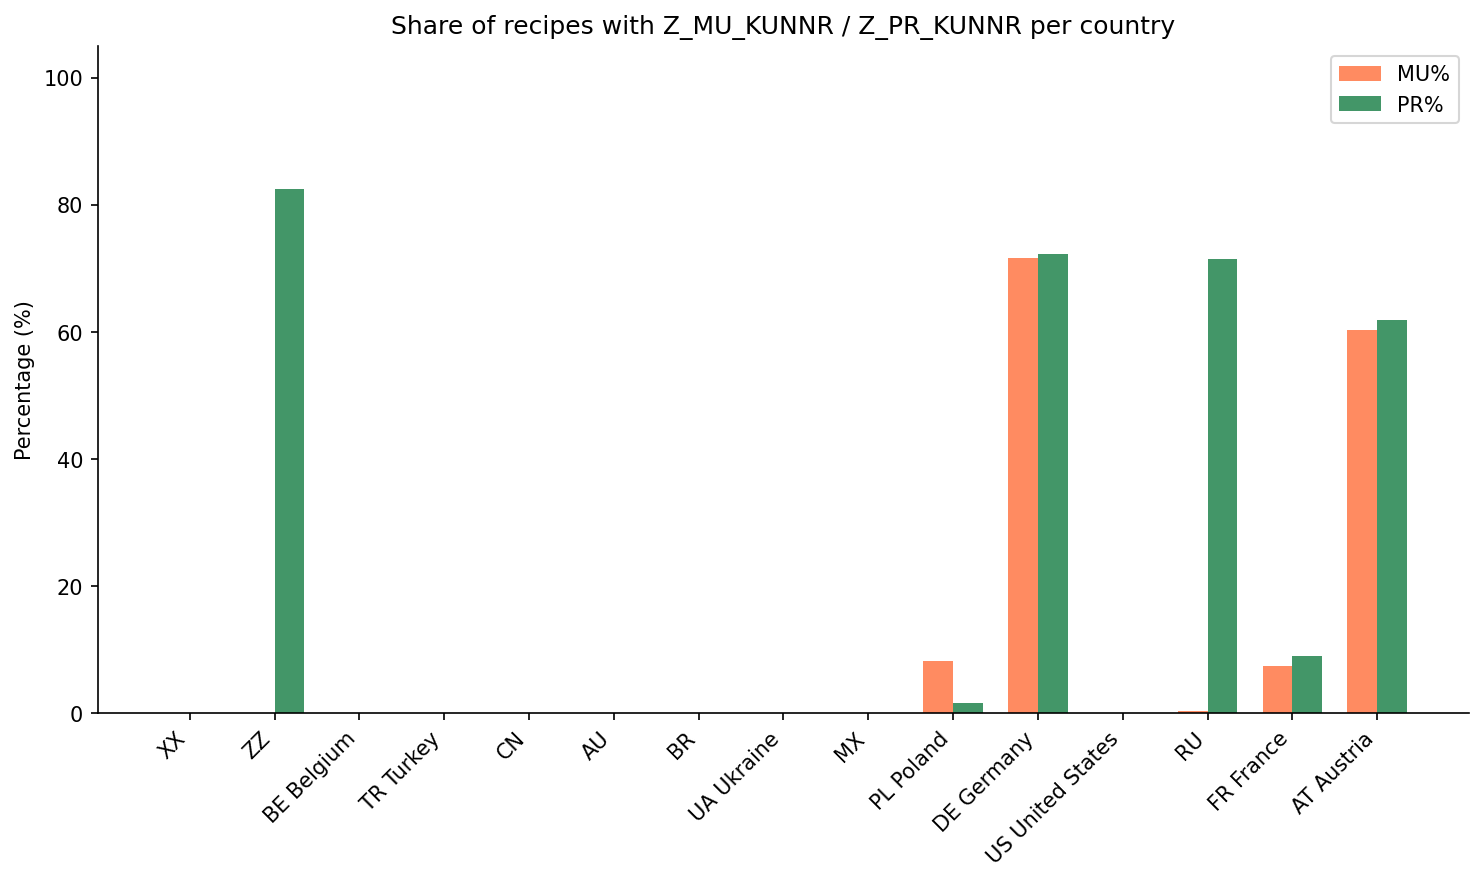
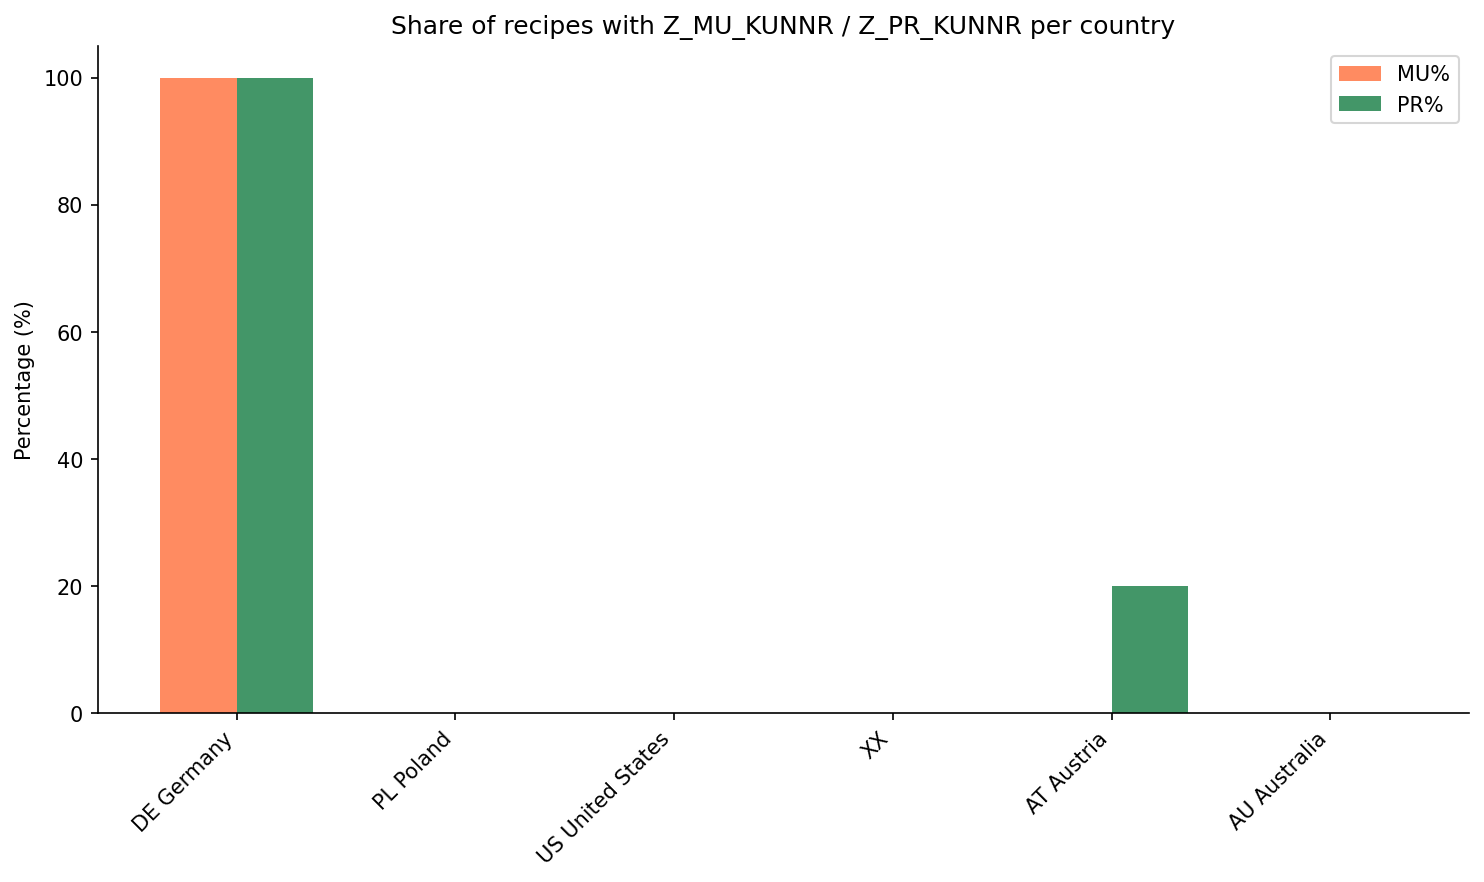
Update kunnr_stats files and enhance country extraction logic
- Revised kunnr_stats.csv to reflect updated statistics with new country data.
- Modified count_kunnr_stats.py to include Australia and Brazil in the country mapping and added a new function to extract country codes from JSON data.
- Updated Excel file kunnr_stats.xlsx and various plot images to align with the latest data changes.

diff --git a/app/backend/count_kunnr_stats.py b/app/backend/count_kunnr_stats.py
@@ -30,14 +30,14 @@ COUNTRY_CODE_RE = re.compile(r'_([A-Z]{2})\d{2}_')
 TARGET_CHARACTS = {"Z_MU_KUNNR", "Z_PR_KUNNR"}
 
 COUNTRY_CODE_MAP = {
-    "AT": "Austria", "BE": "Belgium", "BG": "Bulgaria", "CH": "Switzerland",
-    "CZ": "Czech Republic", "DE": "Germany", "DK": "Denmark", "EE": "Estonia",
-    "ES": "Spain", "FI": "Finland", "FR": "France", "GB": "United Kingdom",
-    "GR": "Greece", "HR": "Croatia", "HU": "Hungary", "IE": "Ireland",
-    "IT": "Italy", "LT": "Lithuania", "LV": "Latvia", "NL": "Netherlands",
-    "NO": "Norway", "PL": "Poland", "PT": "Portugal", "RO": "Romania",
-    "RS": "Serbia", "SE": "Sweden", "SI": "Slovenia", "SK": "Slovakia",
-    "TR": "Turkey", "UA": "Ukraine", "US": "United States",
+    "AT": "Austria", "AU": "Australia", "BE": "Belgium", "BG": "Bulgaria", "BR": "Brazil",
+    "CH": "Switzerland", "CN": "China", "CZ": "Czech Republic", "DE": "Germany", "DK": "Denmark",
+    "EE": "Estonia", "ES": "Spain", "FI": "Finland", "FR": "France", "GB": "United Kingdom",
+    "GR": "Greece", "HR": "Croatia", "HU": "Hungary", "IE": "Ireland", "IT": "Italy",
+    "LT": "Lithuania", "LV": "Latvia", "MX": "Mexico", "NL": "Netherlands", "NO": "Norway",
+    "PL": "Poland", "PT": "Portugal", "RO": "Romania", "RS": "Serbia", "RU": "Russia",
+    "SE": "Sweden", "SI": "Slovenia", "SK": "Slovakia", "TR": "Turkey", "UA": "Ukraine",
+    "US": "United States", "ZZ": "Custom / Unassigned",
 }
 
 EMPTY_ROW = {"total": 0, "has_mu": 0, "has_pr": 0, "has_both": 0, "has_neither": 0}
@@ -46,6 +46,35 @@ EMPTY_ROW = {"total": 0, "has_mu": 0, "has_pr": 0, "has_both": 0, "has_neither":
 def extract_country(filename: str) -> str:
     m = COUNTRY_CODE_RE.search(filename)
     return m.group(1) if m else "XX"
+
+
+def extract_country_from_werks(data: dict) -> str | None:
+    """
+    Extract country code from the first 'werks' field in the recipe JSON.
+    Werks values are like 'AU10', 'AT10', 'DE10' — first 2 letters are the country code.
+    Returns None if no werks found.
+    """
+    found_werks: list[str] = []
+
+    def _find(obj):
+        if isinstance(obj, dict):
+            if "werks" in obj:
+                val = obj.get("werks")
+                if val and isinstance(val, str) and len(val) >= 2:
+                    found_werks.append(str(val)[:2].upper())
+                    return
+            for v in obj.values():
+                _find(v)
+                if found_werks:
+                    return
+        elif isinstance(obj, list):
+            for item in obj:
+                _find(item)
+                if found_werks:
+                    return
+
+    _find(data)
+    return found_werks[0] if found_werks else None
 
 
 def extract_stlan(data: dict) -> str:
@@ -99,6 +128,14 @@ def process_batch(file_paths: list[str]) -> dict:
         try:
             with open(fpath, "rb") as f:
                 data = json.loads(f.read())
+
+            # Country: prefer first 2 letters of 'werks' from JSON (e.g. AU10 -> AU);
+            # fall back to filename pattern for recipes without country in name
+            country_from_werks = extract_country_from_werks(data)
+            if country_from_werks:
+                country = country_from_werks
+            else:
+                country = extract_country(fname)
 
             version = extract_stlan(data)
 
